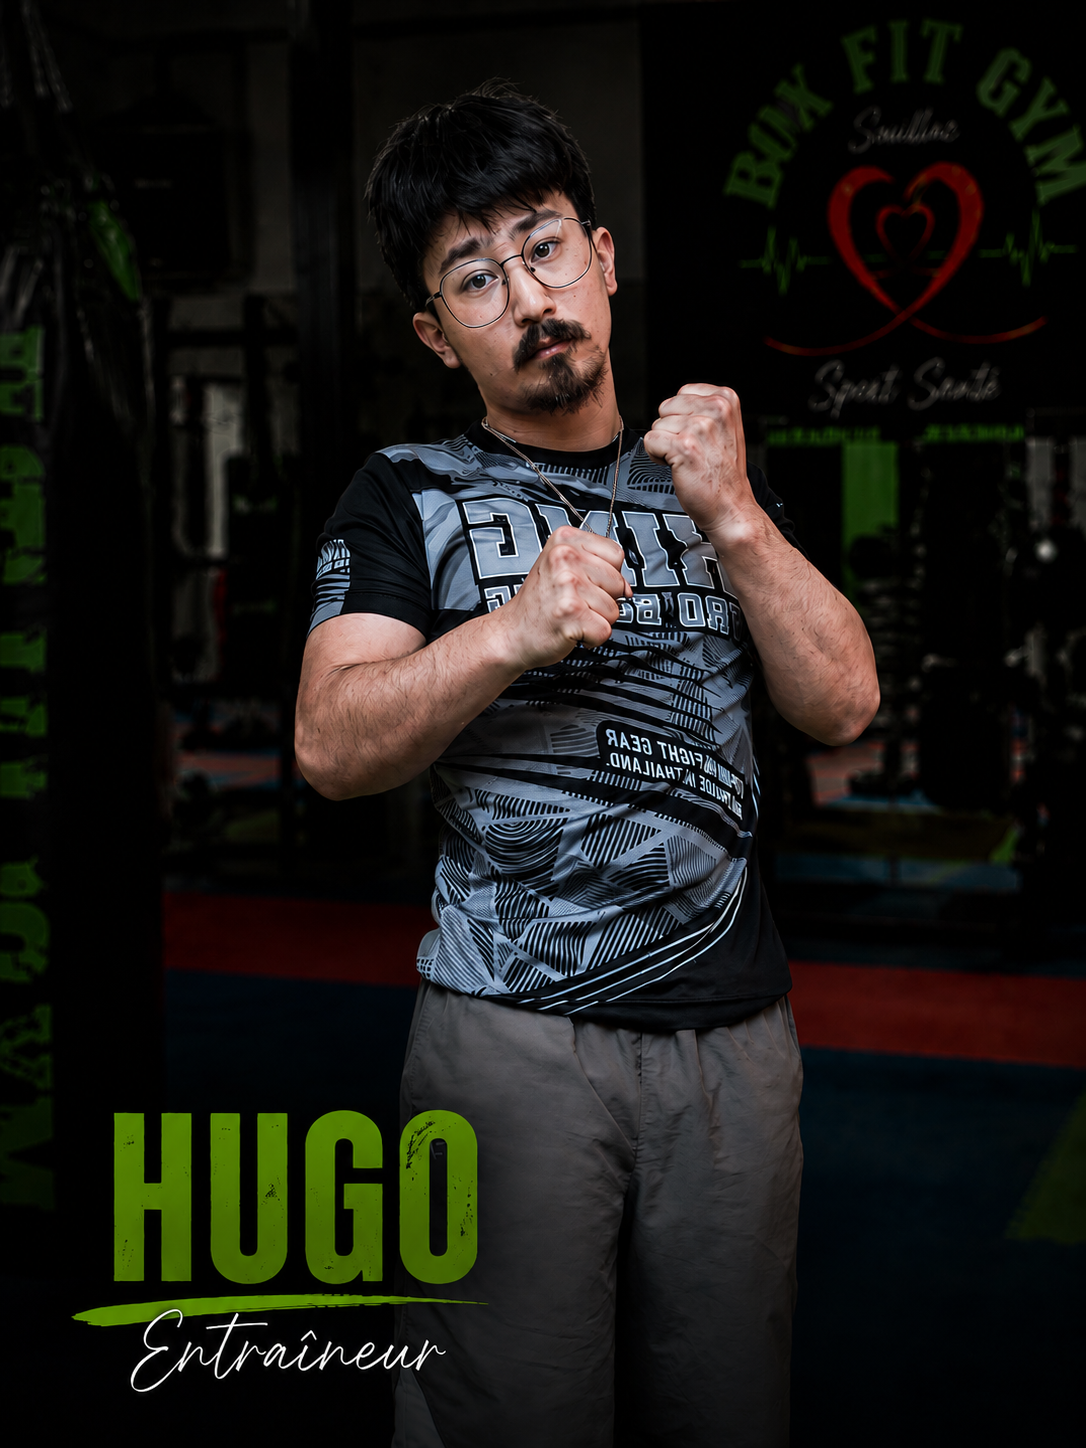
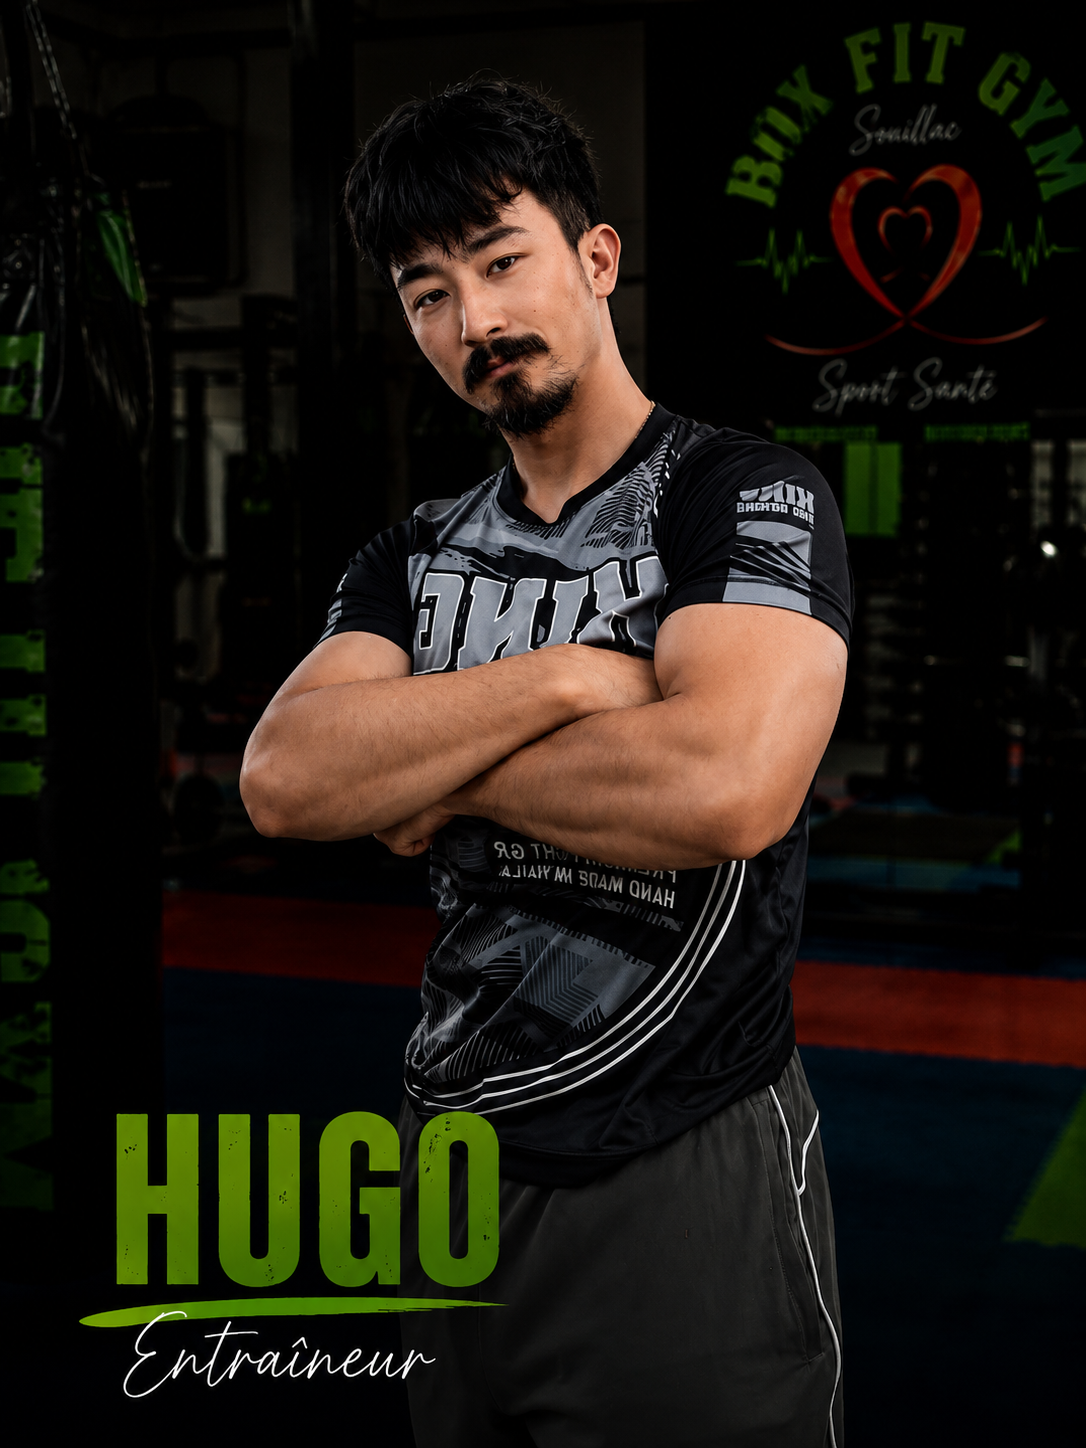
Réordonner les coachs (Sliman, Christophe, Hugo) et ajouter les nouvelles photos

diff --git a/entraineurs.html b/entraineurs.html
@@ -163,8 +163,25 @@
         </div>
       </div>
 
-      <!-- ===== HUGO ===== -->
+      <!-- ===== CHRISTOPHE ===== -->
       <div class="coach-full-card reveal d2">
+        <div class="coach-full-photo">
+          <img src="images/christophe.png" alt="Christophe, entraîneur référent Box Fit Gym Souillac">
+        </div>
+        <div class="coach-full-body">
+          <div class="coach-full-title">Entraîneur référent — Gym, Pilates &amp; Plein air</div>
+
+          <p class="coach-full-bio">
+            Christophe encadre une large palette de disciplines, du Pilates à la marche active en passant par la gym douce et la baby gym. Son approche douce et pédagogue en fait le coach idéal pour les débutants, les vétérans et les enfants.
+          </p>
+          <p class="coach-full-bio">
+            La présentation complète de Christophe sera bientôt disponible. En attendant, n'hésitez pas à <a href="contact.html" style="color:var(--green);text-decoration:underline;">nous contacter</a> pour toute question sur ses cours.
+          </p>
+        </div>
+      </div>
+
+      <!-- ===== HUGO ===== -->
+      <div class="coach-full-card reveal d3">
         <div class="coach-full-photo">
           <img src="images/hugo.png" alt="Hugo, entraîneur Box Fit Gym Souillac">
         </div>
@@ -176,29 +193,6 @@
           </p>
           <p class="coach-full-bio">
             Titulaire de plusieurs diplômes : ceinture noire 1er dan karaté full contact, gant bleu 2e degré kick boxing, AFA, DAF, BMF1 et BMF2 muay thaï et disciplines assimilées, bleu 2e degré pancrace.
-          </p>
-        </div>
-      </div>
-
-      <!-- ===== CHRISTOPHE ===== -->
-      <div class="coach-full-card reveal d3">
-        <div class="coach-full-photo">
-          <div class="coach-full-placeholder">
-            <i class="fas fa-user-clock"></i>
-            <span>Bientôt disponible</span>
-          </div>
-        </div>
-        <div class="coach-full-body">
-          <div class="placeholder-notice">
-            <i class="fas fa-clock"></i> Présentation à venir
-          </div>
-          <div class="coach-full-title">Entraîneur — Gym, Pilates &amp; Plein air</div>
-
-          <p class="coach-full-bio">
-            Christophe encadre une large palette de disciplines, du Pilates à la marche active en passant par la gym douce et la baby gym. Son approche douce et pédagogue en fait le coach idéal pour les débutants, les vétérans et les enfants.
-          </p>
-          <p class="coach-full-bio">
-            La présentation complète de Christophe sera bientôt disponible. En attendant, n'hésitez pas à <a href="contact.html" style="color:var(--green);text-decoration:underline;">nous contacter</a> pour toute question sur ses cours.
           </p>
         </div>
       </div>
